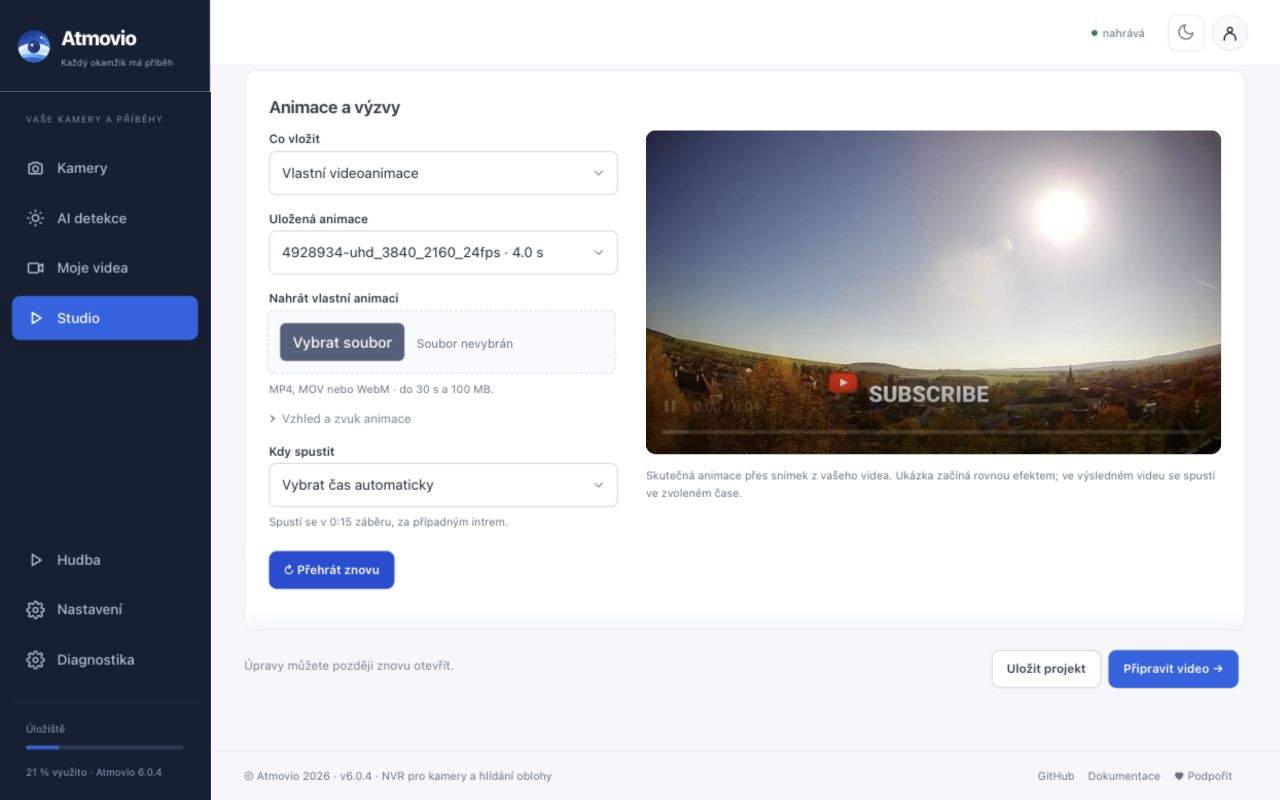
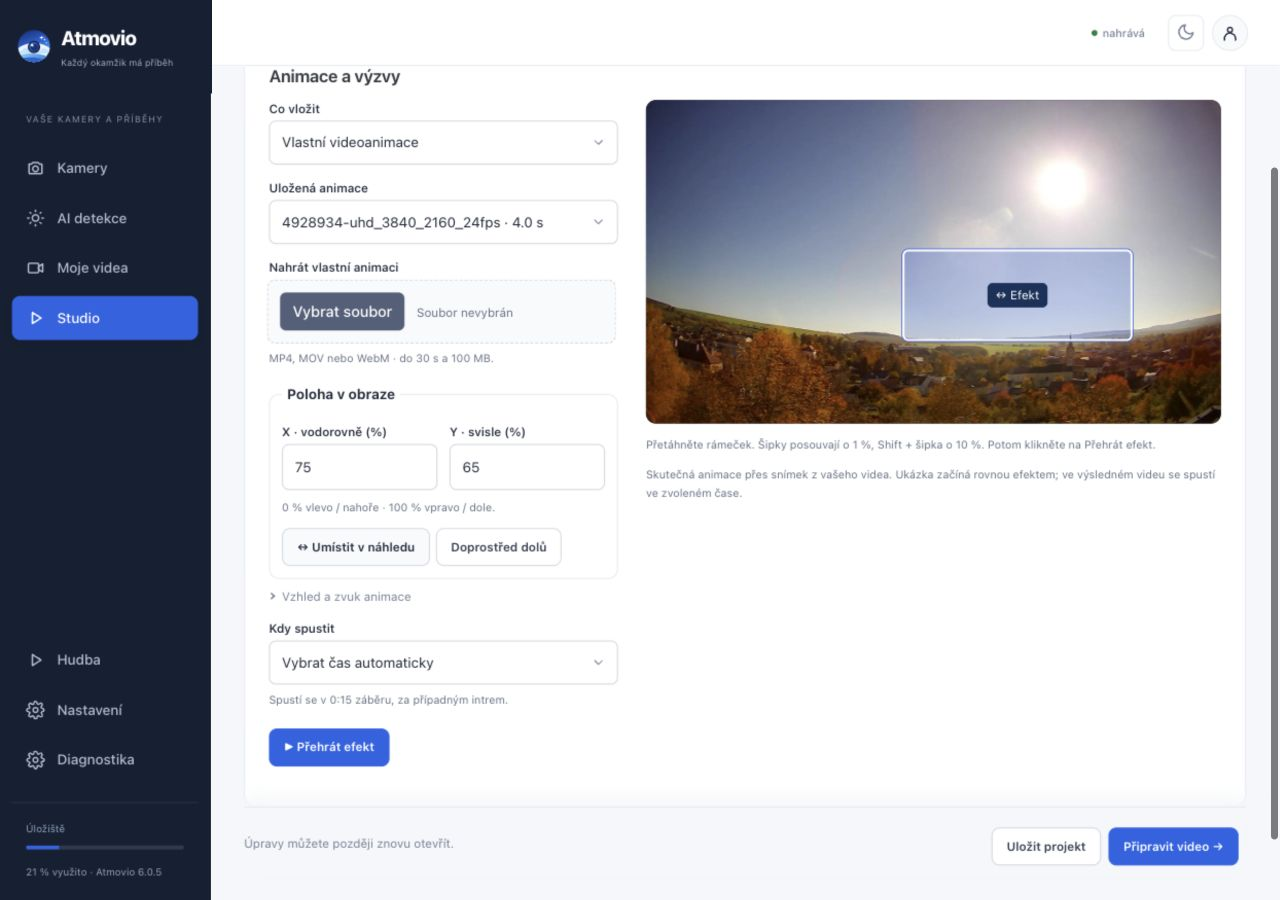
Position video effects with coordinates and preview dragging

diff --git a/src/atmovio/static/atmovio.js b/src/atmovio/static/atmovio.js
@@ -60,6 +60,41 @@
       return {
         effect, at, seconds, playing:false, effectMessage:'', busy:false, previewUrl:'',
         items:options.items||[],asset:options.asset||'',timing:options.timing||'manual',background:options.background||'auto',size:options.size||.4,sound:options.sound!==false,
+        posX:options.x??50,posY:options.y??100,positioning:false,drag:null,frameWidth:options.frameWidth||1920,frameHeight:options.frameHeight||1080,
+        positionChanged(){
+          this.posX=Math.max(0,Math.min(100,Number(this.posX)||0));this.posY=Math.max(0,Math.min(100,Number(this.posY)||0));
+          this.resetVideoPreview();this.positioning=true;
+        },
+        editPosition(){this.stopEffect();this.positioning=true;this.$nextTick(()=>this.$refs.positionStage.scrollIntoView({block:'nearest',behavior:'smooth'}));},
+        positionBox(){
+          const item=this.items.find(item=>item.asset===this.asset);
+          const W=Math.min(1920,this.frameWidth),H=this.frameHeight*W/this.frameWidth,margin=W/120;
+          const mode=this.background==='auto'?item?.background:this.background;
+          const crop=item&&mode===item.background&&mode!=='none'?(item.crop||[0,0,1,1]):[0,0,1,1];
+          const ratio=item?Math.max(2,Math.floor((crop[2]-crop[0])*item.width/2)*2)/Math.max(2,Math.floor((crop[3]-crop[1])*item.height/2)*2):16/9;
+          const width=Math.max(2,Math.floor(Math.min(W*this.size,(H-2*margin)*ratio)/2)*2),height=Math.round(width/ratio/2)*2;
+          const dx=Math.max(0,W-width-2*margin),dy=Math.max(0,H-height-2*margin);
+          return {W,H,width,height,dx,dy,x:margin+dx*this.posX/100,y:margin+dy*this.posY/100};
+        },
+        positionStyle(){const b=this.positionBox();return `left:${b.x/b.W*100}%;top:${b.y/b.H*100}%;width:${b.width/b.W*100}%;height:${b.height/b.H*100}%`;},
+        beginDrag(event){
+          if(event.button!==0)return;
+          this.stopEffect();this.previewUrl='';this.positioning=true;
+          this.drag={id:event.pointerId,x:event.clientX,y:event.clientY,posX:this.posX,posY:this.posY};
+          event.currentTarget.focus({preventScroll:true});event.currentTarget.setPointerCapture(event.pointerId);
+        },
+        moveDrag(event){
+          if(!this.drag||event.pointerId!==this.drag.id)return;
+          const b=this.positionBox(),rect=this.$refs.positionStage.getBoundingClientRect();
+          if(!rect.width||!rect.height)return;
+          this.posX=b.dx?Math.round(Math.max(0,Math.min(100,this.drag.posX+(event.clientX-this.drag.x)/rect.width*b.W/b.dx*100))):50;
+          this.posY=b.dy?Math.round(Math.max(0,Math.min(100,this.drag.posY+(event.clientY-this.drag.y)/rect.height*b.H/b.dy*100))):50;
+        },
+        endDrag(event){if(this.drag?.id===event.pointerId){this.drag=null;if(event.currentTarget.hasPointerCapture(event.pointerId))event.currentTarget.releasePointerCapture(event.pointerId);}},
+        moveKey(event){
+          const delta={ArrowLeft:[-1,0],ArrowRight:[1,0],ArrowUp:[0,-1],ArrowDown:[0,1]}[event.key];if(!delta)return;
+          event.preventDefault();const step=event.shiftKey?10:1;this.posX+=delta[0]*step;this.posY+=delta[1]*step;this.positionChanged();
+        },
         selectedDuration(){return this.items.find(item=>item.asset===this.asset)?.duration||0;},
         effectTime(mainDuration){
           const item=this.items.find(item=>item.asset===this.asset),length=this.effect==='video' ? (item?.duration||0) : Number(this.seconds)||4;
@@ -83,11 +118,11 @@
           if(!this.asset||this.busy)return;
           const current=++generation;this.busy=true;this.effectMessage='Připravuji ukázku s vaším záběrem…';
           try{
-            const body=new FormData();Object.entries({asset:this.asset,vid:options.vid,background:this.background,size:this.size,sound:this.sound?'1':'',csrf_token:this.$el.closest('form').querySelector('[name=csrf_token]').value}).forEach(([key,value])=>body.append(key,value));
+            const body=new FormData();Object.entries({asset:this.asset,vid:options.vid,background:this.background,size:this.size,x:this.posX,y:this.posY,sound:this.sound?'1':'',csrf_token:this.$el.closest('form').querySelector('[name=csrf_token]').value}).forEach(([key,value])=>body.append(key,value));
             const response=await fetch('/studio/effects/preview',{method:'POST',body,credentials:'same-origin'}),data=await response.json();
             if(current!==generation)return;
             if(!response.ok)throw Error(data.error||'Ukázku nelze připravit.');
-            this.previewUrl=data.url;this.effectMessage='';await this.$nextTick();
+            this.previewUrl=data.url;this.positioning=false;this.effectMessage='';await this.$nextTick();
             if(current!==generation)return;
             const video=this.$refs.effectVideo;video.currentTime=0;
             await video.play().catch(()=>{this.effectMessage='Ukázka je připravená. Spusťte ji v přehrávači.';});

diff --git a/tests/studio_preview.js b/tests/studio_preview.js
@@ -11,10 +11,10 @@ class AudioEngine {
   async resume(){this.state='running';}
   async close(){closed++;}
 }
-let pendingPreview;
+let pendingPreview, previewBody;
 const window = {AudioContext:AudioEngine,addEventListener(){}};
 vm.runInNewContext(fs.readFileSync(require('node:path').join(__dirname,'../src/atmovio/static/atmovio.js'),'utf8'),{
-  FormData,fetch:()=>new Promise(resolve=>{pendingPreview=resolve;}),
+  FormData,fetch:(_url,options)=>new Promise(resolve=>{previewBody=options.body;pendingPreview=resolve;}),
   document:{readyState:'loading',addEventListener:(name,fn)=>events[name]=fn}, window,
   Alpine:{data:(name,factory)=>components[name]=factory}
 });
@@ -62,5 +62,22 @@ events['alpine:init']();
   request=uploaded.playVideoEffect();pendingPreview({ok:true,json:async()=>({url:'/ready.mp4'})});await request;
   assert.equal(plays,1);assert.equal(uploaded.previewUrl,'/ready.mp4');
   uploaded.resetVideoPreview();assert.equal(uploaded.previewUrl,'');
+  uploaded.items=[{asset:'clip.mp4',duration:5,width:640,height:360,background:'none',crop:[0,0,1,1]}];
+  uploaded.frameWidth=1280;uploaded.frameHeight=720;
+  uploaded.posX=0;uploaded.posY=0;uploaded.positionChanged();
+  let box=uploaded.positionBox();assert.ok(box.x>0&&box.y>0);assert.equal(uploaded.positioning,true);
+  uploaded.posX=100;uploaded.posY=100;box=uploaded.positionBox();
+  assert.ok(box.x+box.width<box.W&&box.y+box.height<box.H);
+  uploaded.$refs.positionStage={getBoundingClientRect:()=>({width:640,height:360})};
+  const target={focus(){},setPointerCapture(){},hasPointerCapture(){return true;},releasePointerCapture(){}};
+  uploaded.beginDrag({button:0,pointerId:1,clientX:500,clientY:300,currentTarget:target});
+  uploaded.moveDrag({pointerId:2,clientX:0,clientY:0});assert.equal(uploaded.posX,100);
+  uploaded.moveDrag({pointerId:1,clientX:-500,clientY:-300});assert.equal(uploaded.posX,0);assert.equal(uploaded.posY,0);
+  uploaded.endDrag({pointerId:1,currentTarget:target});assert.equal(uploaded.drag,null);
+  uploaded.moveKey({key:'ArrowRight',shiftKey:true,preventDefault(){}});assert.equal(uploaded.posX,10);
+  uploaded.moveKey({key:'ArrowDown',shiftKey:false,preventDefault(){}});assert.equal(uploaded.posY,1);
+  request=uploaded.playVideoEffect();assert.equal(previewBody.get('x'),'10');assert.equal(previewBody.get('y'),'1');
+  uploaded.positionChanged();pendingPreview({ok:true,json:async()=>({url:'/wrong-position.mp4'})});await request;
+  assert.equal(uploaded.previewUrl,'');assert.equal(uploaded.positioning,true);
   console.log('Studio preview: gain, seek, replay, fallback, fade and cleanup OK');
 })().catch(error=>{console.error(error);process.exitCode=1;});

diff --git a/src/atmovio/static/atmovio.css b/src/atmovio/static/atmovio.css
@@ -1380,3 +1380,6 @@ header.top nav.menu > a.active, header.top nav.menu .dd > button.active { backgr
 .effect-workspace{display:grid;grid-template-columns:minmax(240px,.85fr) minmax(0,1.4fr);gap:28px;align-items:start}.effect-settings>label:first-child{margin-top:0}.effect-workspace .effect-preview{margin:0 0 12px}.effect-workspace .effect-preview-actions{flex-wrap:wrap}.effect-workspace .row{grid-template-columns:1fr}.effect-demo{min-width:0}@media(max-width:900px){.effect-workspace{grid-template-columns:1fr}.effect-workspace .row{grid-template-columns:1fr 1fr}}
 
 .effect-video-preview video{width:100%;max-height:50vh;border-radius:10px;background:#0b1421}.effect-placeholder{position:relative;border-radius:10px;overflow:hidden}.effect-placeholder img{display:block;width:100%;opacity:.65}.effect-placeholder p{position:absolute;inset:0;display:grid;place-items:center;background:rgb(0 0 0 / 30%);color:white;text-align:center;padding:24px;margin:0}.effect-upload input[type=file]{width:100%;font-size:12px}.effect-video-preview .hint{margin:12px 0}.music-card>form{margin-top:14px}.music-trash form,.music-trash .overview-row{margin-bottom:0}.music-trash small{color:var(--at-muted)}
+
+/* Positioning is separate from playback so dragging never steals the media controls. */
+.effect-position-controls{margin:16px 0 0;padding:12px;border:1px solid var(--at-line);border-radius:10px}.effect-position-controls legend{font-weight:650;font-size:14px;padding:0 5px}.effect-coordinates{display:grid;grid-template-columns:1fr 1fr;gap:12px}.effect-coordinates label{margin:0}.effect-position-controls .hint{margin:8px 0}.effect-position-controls .actions{gap:8px;flex-wrap:wrap}.effect-position-stage{position:relative;overflow:hidden;border-radius:10px;background:#0b1421}.effect-position-stage>img{position:absolute;width:100%;height:100%;object-fit:fill;user-select:none;pointer-events:none}.effect-position-stage .effect-position-box{position:absolute;min-width:0;min-height:0;margin:0;padding:0;display:grid;place-items:center;background:rgb(37 99 235 / 25%);border:2px solid #fff;box-shadow:0 0 0 1px #2563eb;border-radius:6px;cursor:grab;touch-action:none;user-select:none}.effect-position-box:active{cursor:grabbing}.effect-position-box span{padding:3px 8px;background:#15315b;color:white;border-radius:5px;font-size:12px;white-space:nowrap}.effect-position-box:focus-visible{outline:3px solid #ffbe55;outline-offset:2px}

diff --git a/src/atmovio/app.py b/src/atmovio/app.py
@@ -58,7 +58,7 @@ CONFIG_FILE = APP_DIR / "config.json"
 DB_FILE = APP_DIR / "atmovio.db"
 LOG_FILE = APP_DIR / "atmovio.log"
 FRIGATE_CONTAINER = "frigate"
-APP_VERSION = "6.0.4"
+APP_VERSION = "6.0.5"
 GITHUB_REPO = "VladimirVecera/atmovio"          # odkud se berou nové verze (GitHub Releases)
 UPDATE_STATE_FILE = APP_DIR / "update-state.json"
 UPDATE_LOG_FILE = APP_DIR / "update.log"
@@ -3764,12 +3764,13 @@ TEMPLATES["studio_new.html"] = """{% extends "base.html" %}{% block actions %}<a
   </details></div></section>
 <section id="studio-intro" x-show="tab==='intro'" x-cloak x-data="introPicker({{ (values.edit.intro_asset or '')|tojson|forceescape }}, {{ values.intro_url|tojson|forceescape }}, {{ (intro.suffix|lower if intro else '')|tojson|forceescape }})"><h2>Úvod videa</h2><p class="hint">Tady si přehrajete intro a můžete ho vyměnit.</p><input type="hidden" name="intro_asset" :value="asset"><div class="intro-edit-grid"><div class="intro-canvas"><img x-show="url && isImage" class="intro-preview" :src="isImage ? url : null" alt="Náhled intra"><video x-show="url && !isImage" class="intro-preview" controls playsinline preload="metadata" :src="url && !isImage ? url : null"></video><p x-show="!url">Vyberte video nebo obrázek pro začátek videa.</p></div><div><label class="check"><input type="checkbox" name="intro" value="1" x-model="intro" :disabled="!url">Přidat intro na začátek</label><label>Vybrat nebo změnit intro<input type="file" accept=".mp4,.mov,.m4v,.png,.jpg,.jpeg" @change="upload($event)" :disabled="busy"></label><p class="hint" role="status" x-text="message"></p><p class="hint">Video nebo obrázek · do 100 MB. Změna platí pro tento projekt.</p></div></div></section>
 <section id="studio-text" x-show="tab==='text'" x-cloak><h2>Text v obraze</h2><label class="check"><input type="checkbox" name="text_on" value="1" x-model="textOn">Přidat text</label><label x-show="textOn">Váš text<input name="text" value="{{ values.text }}" maxlength="200" placeholder="Například: Ranní mlha nad údolím"></label><label>Poloha<select name="text_pos">{% for key,label in [('bl','Dole vlevo'),('bc','Dole uprostřed'),('br','Dole vpravo'),('tl','Nahoře vlevo'),('tr','Nahoře vpravo')] %}<option value="{{ key }}" {{ 'selected' if values.edit.text_pos==key }}>{{ label }}</option>{% endfor %}</select></label><p class="hint">Napište běžný text. Kamera, datum a čas patří do popisu, pokud je nechcete v obraze.</p></section>
-<section id="studio-effects" x-show="tab==='effects'" x-cloak x-data="effectPreview({{ values.edit.effect|tojson|forceescape }}, {{ values.edit.effect_at }}, {{ values.edit.effect_duration }}, {items:{{ effects|tojson|forceescape }},asset:{{ values.edit.effect_asset|tojson|forceescape }},timing:{{ values.edit.effect_timing|tojson|forceescape }},background:{{ values.edit.effect_background|tojson|forceescape }},size:{{ values.edit.effect_size }},sound:{{ 'true' if values.edit.effect_sound else 'false' }},vid:{{ export.id }}})" @studio-tab.window="stopEffect()"><h2>Animace a výzvy</h2><div class="effect-workspace"><div class="effect-settings"><label>Co vložit<select name="effect" x-model="effect" @change="resetVideoPreview()"><option value="">Bez efektu</option><option value="video">Vlastní videoanimace</option><optgroup label="Jednoduchá textová výzva">{% for key,label in [('subscribe','Odebírejte další videa'),('share','Sdílejte tento okamžik'),('both','Sdílejte a odebírejte')] %}<option value="{{ key }}" {{ 'selected' if values.edit.effect==key }}>{{ label }}</option>{% endfor %}</optgroup></select></label>
+<section id="studio-effects" x-show="tab==='effects'" x-cloak x-data="effectPreview({{ values.edit.effect|tojson|forceescape }}, {{ values.edit.effect_at }}, {{ values.edit.effect_duration }}, {items:{{ effects|tojson|forceescape }},asset:{{ values.edit.effect_asset|tojson|forceescape }},timing:{{ values.edit.effect_timing|tojson|forceescape }},background:{{ values.edit.effect_background|tojson|forceescape }},size:{{ values.edit.effect_size }},x:{{ values.edit.effect_x }},y:{{ values.edit.effect_y }},frameWidth:{{ src.width or 1920 }},frameHeight:{{ src.height or 1080 }},sound:{{ 'true' if values.edit.effect_sound else 'false' }},vid:{{ export.id }}})" @studio-tab.window="stopEffect()"><h2>Animace a výzvy</h2><div class="effect-workspace"><div class="effect-settings"><label>Co vložit<select name="effect" x-model="effect" @change="resetVideoPreview()"><option value="">Bez efektu</option><option value="video">Vlastní videoanimace</option><optgroup label="Jednoduchá textová výzva">{% for key,label in [('subscribe','Odebírejte další videa'),('share','Sdílejte tento okamžik'),('both','Sdílejte a odebírejte')] %}<option value="{{ key }}" {{ 'selected' if values.edit.effect==key }}>{{ label }}</option>{% endfor %}</optgroup></select></label>
 <div x-show="effect==='video'"><label>Uložená animace<select name="effect_asset" x-model="asset" @change="resetVideoPreview()"><option value="">Vyberte animaci</option><template x-for="item in items" :key="item.asset"><option :value="item.asset" x-text="item.name+' · '+item.duration.toFixed(1)+' s'"></option></template></select></label><label class="effect-upload">Nahrát vlastní animaci<input type="file" accept=".mp4,.mov,.m4v,.webm" @change="uploadEffect($event)" :disabled="busy"></label><p class="hint">MP4, MOV nebo WebM · do 30 s a 100 MB.</p>
+<fieldset class="effect-position-controls" x-show="asset"><legend>Poloha v obraze</legend><div class="effect-coordinates"><label>X · vodorovně (%)<input name="effect_x" type="number" min="0" max="100" step="1" x-model.number="posX" @input="positionChanged()"></label><label>Y · svisle (%)<input name="effect_y" type="number" min="0" max="100" step="1" x-model.number="posY" @input="positionChanged()"></label></div><p class="hint">0 % vlevo / nahoře · 100 % vpravo / dole.</p><div class="actions"><button type="button" class="btn small sec" @click="editPosition()">↔ Umístit v náhledu</button><button type="button" class="btn small sec" @click="posX=50;posY=100;positionChanged()">Doprostřed dolů</button></div></fieldset>
 <details class="inline-help"><summary>Vzhled a zvuk animace</summary><label>Pozadí<select name="effect_background" x-model="background" @change="resetVideoPreview()"><option value="auto">Odstranit automaticky</option><option value="green">Odstranit zelené</option><option value="black">Odstranit černé</option><option value="none">Ponechat původní</option></select></label><label>Velikost<select name="effect_size" x-model.number="size" @change="resetVideoPreview()"><option value="0.25">Malá</option><option value="0.4">Střední</option><option value="0.6">Velká</option><option value="0.8">Největší</option></select></label><label class="check"><input type="checkbox" name="effect_sound" value="1" x-model="sound" @change="resetVideoPreview()">Přehrát i zvuk animace</label></details></div>
 <div x-show="effect"><label>Kdy spustit<select name="effect_timing" x-model="timing" @change="stopEffect()"><option value="auto">Vybrat čas automaticky</option><option value="manual">Zadat čas ručně</option></select></label><p class="hint" x-show="timing==='auto'" x-text="'Spustí se v '+effectTime((trimEnd-trimStart)/speed)+' záběru, za případným intrem.'"></p><label x-show="timing==='manual'">Začátek · sekundy hotového záběru<input type="number" min="0" max="21600" name="effect_at" x-model.number="at" @input="stopEffect()"></label><label x-show="effect!=='video'">Délka zobrazení · s<input type="number" min="1" max="30" name="effect_duration" x-model.number="seconds" @input="stopEffect()"></label></div>
 <p class="hint" x-show="effect==='video' && selectedDuration()>(trimEnd-trimStart)/speed">Záběr je kratší než animace. Použije se jen část, která se do videa vejde.</p><div class="effect-preview-actions"><button type="button" class="btn" :disabled="!effect || busy || (effect==='video' && !asset)" @click="playEffect((trimEnd-trimStart)/speed)" x-text="busy ? 'Připravuji ukázku…' : playing ? '↻ Přehrát znovu' : '▶ Přehrát efekt'"></button><span class="hint" role="status" x-text="effectMessage"></span></div></div><div class="effect-demo">
-<div x-show="effect==='video'" class="effect-video-preview"><video x-ref="effectVideo" x-show="previewUrl" :src="previewUrl || null" controls playsinline preload="metadata" @ended="playing=false" @pause="playing=false" @play="playing=true"></video><div x-show="!previewUrl" class="effect-placeholder"><img src="/videos/{{ export.id }}/thumb.jpg" alt="Snímek zdrojového videa"><p>Vyberte animaci a klikněte na Přehrát efekt.</p></div><p class="hint">Skutečná animace přes snímek z vašeho videa. Ukázka začíná rovnou efektem; ve výsledném videu se spustí ve zvoleném čase.</p></div>
+<div x-show="effect==='video'" class="effect-video-preview"><video x-ref="effectVideo" x-show="previewUrl && !positioning" :src="previewUrl || null" controls playsinline preload="metadata" @ended="playing=false" @pause="playing=false" @play="playing=true"></video><div x-show="positioning && asset" class="effect-position-stage" x-ref="positionStage" :style="'aspect-ratio:'+frameWidth+'/'+frameHeight"><img src="/videos/{{ export.id }}/thumb.jpg" alt="Umístění efektu v obraze" draggable="false"><button type="button" class="effect-position-box" :style="positionStyle()" aria-label="Poloha efektu — přetáhněte nebo použijte šipky" @pointerdown.prevent="beginDrag($event)" @pointermove="moveDrag($event)" @pointerup="endDrag($event)" @pointercancel="endDrag($event)" @lostpointercapture="drag=null" @keydown="moveKey($event)"><span>↔ Efekt</span></button></div><p x-show="positioning && asset" class="hint">Přetáhněte rámeček. Šipky posouvají o 1 %, Shift + šipka o 10 %. Potom klikněte na Přehrát efekt.</p><div x-show="!previewUrl && !positioning" class="effect-placeholder"><img src="/videos/{{ export.id }}/thumb.jpg" alt="Snímek zdrojového videa"><p>Vyberte animaci a klikněte na Přehrát efekt.</p></div><p class="hint">Skutečná animace přes snímek z vašeho videa. Ukázka začíná rovnou efektem; ve výsledném videu se spustí ve zvoleném čase.</p></div>
 {% set effect_width = [src.width or 1920,1920]|min %}{% set effect_size = [24,effect_width//45]|max %}
 <div x-show="effect!=='video'"><div class="effect-preview" style="--effect-font:{{ effect_size/effect_width*100 }}cqw;--effect-bottom:{{ 24/effect_width*100 }}cqw;--effect-padding:{{ 10/effect_width*100 }}cqw;--effect-stroke:{{ 2/effect_width*100 }}cqw"><img src="/videos/{{ export.id }}/thumb.jpg" alt="Snímek zdrojového videa"><span class="effect-caption" x-ref="caption" x-show="effect" x-text="caption"></span></div><p class="hint">Ukázka textového efektu na snímku z videa.</p></div></div></div></section>
 <section id="studio-title" x-show="tab==='title'" x-cloak x-data="titleIdeas({vid:{{ export.id }}})"><h2>Název a popis</h2><label>Název<input name="title" value="{{ short_title(values.title,export.camera) }}" maxlength="100" x-ref="title"></label><label>Popis<textarea name="description" rows="6" x-ref="description">{{ values.description }}</textarea></label><button type="button" class="btn sec" @click="askMetadata()" :disabled="busy">Navrhnout texty</button><p class="hint" x-text="metaMsg"></p><div x-show="proposal"><strong x-text="proposal?.title"></strong><p x-text="proposal?.description"></p><button class="btn small" type="button" @click="applyMetadata()">Použít návrh</button></div></section>
@@ -7425,13 +7426,20 @@ def studio_effect_filter(meta, edit, width, height, start=0):
     x, y = int(box[0]*meta['width'])//2*2, int(box[1]*meta['height'])//2*2
     cw = max(2,min(meta['width']-x,int((box[2]-box[0])*meta['width'])//2*2))
     ch = max(2,min(meta['height']-y,int((box[3]-box[1])*meta['height'])//2*2))
-    target = min(width*edit.get('effect_size',.4),(height-32)*cw/ch)
+    target = min(width*edit.get('effect_size',.4),max(2,height-width/60)*cw/ch)
     target = max(2,int(target)//2*2)
     chain = f'crop={cw}:{ch}:{x}:{y},scale={target}:-2,setsar=1,format=rgba'
     if mode in ('green','black'):
         key = meta['color'] if mode == meta['background'] else '00ff00' if mode == 'green' else '000000'
         chain += f',colorkey=0x{key}:{.2 if mode == "green" else .12}:0.08'
     return chain + f',setpts=PTS-STARTPTS+{start:.6f}/TB'
+
+
+def studio_effect_overlay(edit):
+    # Coordinates span the available area, keeping the whole animation inside a small inset.
+    # The inset scales with the frame so the preview and final render agree.
+    x, y = edit.get('effect_x', 50), edit.get('effect_y', 100)
+    return f"overlay=x='W/120+max(0,W-w-W/60)*{x/100:.6f}':y='W/120+max(0,H-h-W/60)*{y/100:.6f}':eof_action=pass:repeatlast=0"
 
 
 @app.post('/studio/effects/upload')
@@ -7461,9 +7469,9 @@ _effect_preview_lock = threading.Lock()
 
 @app.post('/studio/effects/preview')
 def studio_effect_preview(request: Request, asset: str = Form(...), vid: int = Form(...), background: str = Form('auto'),
-                          size: float = Form(.4), sound: str = Form('1')):
+                          size: float = Form(.4), sound: str = Form('1'), x: float = Form(50), y: float = Form(100)):
     meta = studio_effect_meta(asset)
-    if not meta or background not in ('auto','green','black','none') or not math.isfinite(size) or not .2 <= size <= .8:
+    if not meta or background not in ('auto','green','black','none') or not all(math.isfinite(n) for n in (size,x,y)) or not .2 <= size <= .8 or not 0 <= x <= 100 or not 0 <= y <= 100:
         return JSONResponse({'error':'Vyberte dostupnou animaci a její nastavení.'},status_code=400)
     cfg = load_config()
     with db() as con:
@@ -7473,15 +7481,16 @@ def studio_effect_preview(request: Request, asset: str = Form(...), vid: int = F
     poster = export_thumb_path(cfg,dict(rec),frigate_exports(cfg).get(rec['frigate_id']))
     if not poster:
         return JSONResponse({'error':'Náhled zdrojového videa není dostupný.'},status_code=404)
-    token = hashlib.sha256(f'{asset}:{vid}:{poster.stat().st_mtime_ns}:{background}:{size}:{bool(sound)}'.encode()).hexdigest()[:32]
+    token = hashlib.sha256(f'position-v1:{asset}:{vid}:{poster.stat().st_mtime_ns}:{background}:{size}:{bool(sound)}:{x}:{y}'.encode()).hexdigest()[:32]
     folder = studio_effect_dir()/'previews';folder.mkdir(exist_ok=True)
     target = folder/(token+'.mp4')
     with _effect_preview_lock:
         if not target.is_file():
             with Image.open(poster) as im:
                 w,h=640,max(2,round(im.height*640/im.width/2)*2)
-            chain=studio_effect_filter(meta,{'effect_background':background,'effect_size':size},w,h)
-            filters=f'[0:v]scale={w}:{h},setsar=1[bg];[1:v]{chain}[fx];[bg][fx]overlay=(W-w)/2:H-h-16:eof_action=pass:repeatlast=0,format=yuv420p[v]'
+            edit={'effect_background':background,'effect_size':size,'effect_x':x,'effect_y':y}
+            chain=studio_effect_filter(meta,edit,w,h)
+            filters=f'[0:v]scale={w}:{h},setsar=1[bg];[1:v]{chain}[fx];[bg][fx]{studio_effect_overlay(edit)},format=yuv420p[v]'
             temp=folder/(token+'.part.mp4')
             cmd=['ffmpeg','-v','error','-nostdin','-y','-filter_complex_threads','1','-loop','1','-i',str(poster),
                  '-threads','2','-i',str(studio_effect_dir()/asset),'-filter_complex',filters,'-map','[v]']
@@ -7694,7 +7703,8 @@ def normalize_studio_edit(edit, sc):
     result = {}
     for key, default, low, high in [('music_start', 0, 0, 86400), ('music_volume', sc.get('music_volume', .8), 0, 2),
                                   ('fade_in', sc.get('fade_in', 2), 0, 30), ('fade_out', sc.get('fade_out', 4), 0, 30),
-                                  ('effect_at', 5, 0, 21600), ('effect_duration', 4, 1, 30), ('effect_size', .4, .2, .8)]:
+                                  ('effect_at', 5, 0, 21600), ('effect_duration', 4, 1, 30), ('effect_size', .4, .2, .8),
+                                  ('effect_x', 50, 0, 100), ('effect_y', 100, 0, 100)]:
         value = float(edit.get(key, default))
         if not math.isfinite(value) or not low <= value <= high:
             raise ValueError('Neplatné nastavení zvuku nebo efektu.')
@@ -7865,7 +7875,7 @@ def studio_render(cfg, job: dict):
         cmd += ['-threads','2','-t',str(effect_length),'-i',str(studio_effect_dir()/edit['effect_asset'])]
         filters.append(main+'[plain]')
         filters.append(f'[{effect_in}:v]'+studio_effect_filter(effect_meta,edit,w,h,effect_begin)+'[effect]')
-        filters.append(f"[plain][effect]overlay=(W-w)/2:H-h-16:eof_action=pass:repeatlast=0:enable='between(t,{effect_begin:.6f},{effect_begin+effect_length:.6f})'[main]")
+        filters.append(f"[plain][effect]{studio_effect_overlay(edit)}:enable='between(t,{effect_begin:.6f},{effect_begin+effect_length:.6f})'[main]")
     else:
         filters.append(main+'[main]')
     intro_sec = 0.0
@@ -8175,7 +8185,8 @@ def studio_new_post(request: Request, vid: int, speed: int = Form(20), intro: st
                     music_start: float = Form(0), music_volume: float = Form(.8), fade_in: float = Form(2), fade_out: float = Form(4),
                     effect: str = Form(''), effect_at: float = Form(5), effect_duration: float = Form(4), text_pos: str = Form('bl'),
                     intro_asset: str = Form(''), project_id: int = Form(0), effect_asset: str = Form(''), effect_timing: str = Form('manual'),
-                    effect_background: str = Form('auto'), effect_size: float = Form(.4), effect_sound: str = Form('')):
+                    effect_background: str = Form('auto'), effect_size: float = Form(.4), effect_sound: str = Form(''),
+                    effect_x: float = Form(50), effect_y: float = Form(100)):
     cfg = load_config()
     export = _studio_export(cfg, vid)
     if not export:
@@ -8194,7 +8205,7 @@ def studio_new_post(request: Request, vid: int, speed: int = Form(20), intro: st
                              description.strip(), trim_start=trim_start, trim_end=trim_end if trim_start or trim_end < info["duration"] - 0.11 else None,
                              draft=action == 'draft', project_id=project_id, edit=dict(music_start=music_start, music_volume=music_volume, fade_in=fade_in,
                              fade_out=fade_out, effect=effect, effect_at=effect_at, effect_duration=effect_duration, text_pos=text_pos, intro_asset=intro_asset, effect_asset=effect_asset, effect_timing=effect_timing,
-                             effect_background=effect_background, effect_size=effect_size, effect_sound=bool(effect_sound)))
+                             effect_background=effect_background, effect_size=effect_size, effect_sound=bool(effect_sound), effect_x=effect_x, effect_y=effect_y))
     except ValueError as exc:
         flash(request, str(exc), "err")
         return RedirectResponse("/videos", status_code=303)

diff --git a/tests/video_effects.py b/tests/video_effects.py
@@ -29,23 +29,34 @@ with tempfile.TemporaryDirectory(prefix='atmovio-effects-') as tmp:
   assert response.status_code==200,response.text
   meta=response.json();assert meta['background']==background and meta['crop'][2]-meta['crop'][0]<.5,meta
   assert client.get('/studio/effects/asset/'+meta['asset'],headers={'Range':'bytes=0-99'}).status_code==206
-  edit={'effect':'video','effect_asset':meta['asset'],'effect_timing':'auto','effect_background':'auto','effect_sound':True,'music_volume':.2,'fade_in':0,'fade_out':0}
+  pos=0 if background=='green' else 100
+  point=(100,60) if pos==0 else (540,300)
+  edit={'effect_x':pos,'effect_y':pos,'effect':'video','effect_asset':meta['asset'],'effect_timing':'auto','effect_background':'auto','effect_sound':True,'music_volume':.2,'fade_in':0,'fade_out':0}
   with patch.object(a,'studio_kick'):
    sid=a.studio_enqueue(cfg,a._studio_export(cfg,eid),1,True,'tone.wav','','Overlay','',edit=edit,draft=True)
   with a.db() as con:job=dict(con.execute('SELECT * FROM studio_videos WHERE id=?',(sid,)).fetchone())
   assert json.loads(job['edit_json'])['effect_asset']==meta['asset']
+  assert json.loads(job['edit_json'])['effect_x']==pos and json.loads(job['edit_json'])['effect_y']==pos
   client.post('/studio/upload/music/delete',data={'csrf_token':token,'name':'tone.wav'},follow_redirects=False)
   assert a.studio_music_path('tone.wav').parent.name=='trash'
   with patch.object(a,'storage_ready',return_value=True),patch.object(a,'frigate_exports',return_value={'source':{'video_path':str(source),'thumb_path':str(poster)}}),patch.object(a,'frigate_media_path',side_effect=lambda p:Path(p)),patch.object(a,'studio_after_render'):
-   preview=client.post('/studio/effects/preview',data={'csrf_token':token,'asset':meta['asset'],'vid':eid})
+   preview=client.post('/studio/effects/preview',data={'csrf_token':token,'asset':meta['asset'],'vid':eid,'x':pos,'y':pos})
    assert preview.status_code==200,preview.text
    assert client.get(preview.json()['url']).status_code==200
+   preview_path=a.studio_effect_dir()/'previews'/Path(preview.json()['url']).name
+   raw=ff('-ss','1','-i',preview_path,'-frames:v','1','-f','rawvideo','-pix_fmt','rgb24','pipe:1')
+   sample=Image.frombytes('RGB',(640,360),raw)
+   assert sample.getpixel(point)[0]>200 and sample.getpixel((320,180))[2]>200
+   saved=client.post(f'/studio/new/{eid}',data={'csrf_token':token,'action':'draft','speed':1,'title':'Positioned','effect':'video','effect_asset':meta['asset'],'effect_x':25,'effect_y':75,'trim_end':8},follow_redirects=False)
+   assert saved.status_code==303,saved.text
+   with a.db() as con: saved_edit=json.loads(con.execute("SELECT edit_json FROM studio_videos WHERE title='Positioned' ORDER BY id DESC LIMIT 1").fetchone()[0])
+   assert saved_edit['effect_x']==25 and saved_edit['effect_y']==75
    a.studio_render(cfg,job)
   out=a.studio_out_dir(cfg)/f'{sid}.mp4';info=a.ffprobe_info(out)
   assert info['audio'] and 11.9<info['duration']<12.2,info
   def pixel(t):
    raw=ff('-ss',t,'-i',out,'-frames:v','1','-f','rawvideo','-pix_fmt','rgb24','pipe:1')
-   im=Image.frombytes('RGB',(640,360),raw);return im.getpixel((320,290)),im.getpixel((10,100))
+   im=Image.frombytes('RGB',(640,360),raw);return im.getpixel(point),im.getpixel((320,180))
   before,_=pixel(5);during,outside=pixel(6.7);after,_=pixel(9)
   assert before[2]>200 and after[2]>200 and outside[2]>200,(before,during,after,outside)
   assert during[0]>200 and during[1]<50 and during[2]<50,during
@@ -53,10 +64,19 @@ with tempfile.TemporaryDirectory(prefix='atmovio-effects-') as tmp:
    raw=ff('-ss',t,'-i',out,'-t','0.3','-vn','-ac','1','-ar','8000','-f','f32le','pipe:1')
    samples=struct.unpack('<'+'f'*(len(raw)//4),raw);return math.sqrt(sum(s*s for s in samples)/len(samples))
   assert rms(6.7)>rms(5)*2
+ assert a.normalize_studio_edit({},a.studio_cfg(cfg))['effect_x']==50
+ assert a.normalize_studio_edit({},a.studio_cfg(cfg))['effect_y']==100
+ for key in ('effect_x','effect_y'):
+  for bad in (-1,101,float('nan'),float('inf')):
+   try:a.normalize_studio_edit({key:bad},a.studio_cfg(cfg))
+   except ValueError:pass
+   else:raise AssertionError('invalid coordinate accepted')
+   response=client.post('/studio/effects/preview',data={'csrf_token':token,'asset':meta['asset'],'vid':eid,key[-1]:bad})
+   assert response.status_code in (400,422),response.text
  assert a.studio_effect_start(60,5)==15 and a.studio_effect_start(3,5)==0
  assert a.studio_effect_start(10,4,'manual',9)==6
  assert hashlib.sha256(source.read_bytes()).hexdigest()==original
  assert client.post('/studio/effects/upload',files={'file':('bad.mp4',b'broken','video/mp4')}).status_code==403
  assert client.post('/studio/effects/upload',data={'csrf_token':token},files={'file':('bad.mp4',b'broken','video/mp4')}).status_code==400
  assert a.studio_effect_meta('../../config.json') is None
- print('PASS: green/black detection and removal, cropping, preview, effect+intro+music timing, delayed sound, saved assets, short clips, untouched source, auth/CSRF')
+ print('PASS: green/black detection and removal, cropping, corner positions in preview/render, saved coordinates and bounds, effect+intro+music timing, delayed sound, saved assets, short clips, untouched source, auth/CSRF')

diff --git a/docs/cs/verze-6.0.md b/docs/cs/verze-6.0.md
@@ -1,4 +1,4 @@
-# Atmovio 6.0.4
+# Atmovio 6.0.5
 
 Hlavní nabídka má čtyři místa: **Kamery, AI detekce, Moje videa a Studio**. Hudba, nastavení a diagnostika jsou ve spodní části nabídky. Technické podklady AI zůstávají v rozbalitelných detailech.
 
@@ -14,7 +14,7 @@ AI detekce ukazují hotové klipy od nejnovějšího záznamu, bez ohledu na dat
 
 Překrývající se automatické klipy stejné kamery se spojují do jednoho rozsahu, nejvýše šest hodin. Například 10:00–12:20, 10:50–13:00 a 12:00–13:30 vytvoří 10:00–13:30. Staré klipy se skryjí až po dokončení spojeného videa. Pokud původní záznam už chybí, zůstanou původní klipy dostupné. Zdroje uložených projektů se automatickým úklidem neodstraňují; prostor lze uvolnit ručně.
 
-Přepínače ve Studiu otevírají samostatné pracovní plochy. Zdrojové video vidíte u střihu; hudba má vlastní široký přehrávač a intro vlastní náhled. Studio nabízí střih, rychlost 1× nebo časosběr 10–240×, hudbu s přehrávačem a volbou začátku, vlastní intro, text a výzvu k odběru či sdílení. Náhled zdroje slouží k výběru střihu; celý výsledek s efekty a hudbou je dostupný po přípravě videa. V Efektech můžete nahrát vlastní MP4/MOV/WebM animaci (do 30 s a 100 MB) a opakovaně ji vybírat z nabídky. **Přehrát efekt** ukáže skutečnou animaci přes snímek ze zdroje. Zelené nebo černé pozadí se odstraní automaticky; vzhled, velikost i zvuk lze změnit. Automatický čas se počítá z délky zrychleného záběru za intrem a vejde do něj celou animaci, pokud je záběr dost dlouhý. Čas můžete zadat i ručně. Hlasitost hudby je v procentech (100 % je původní hlasitost) a mění i poslech; tlačítko pod ní přehrává od vybraného začátku. Nástup a doznění hudby se použijí až při přípravě videa. Uložený projekt lze znovu otevřít. Úprava hotového videa vytvoří další verzi; již publikované video se samo nezmění.
+Přepínače ve Studiu otevírají samostatné pracovní plochy. Zdrojové video vidíte u střihu; hudba má vlastní široký přehrávač a intro vlastní náhled. Studio nabízí střih, rychlost 1× nebo časosběr 10–240×, hudbu s přehrávačem a volbou začátku, vlastní intro, text a výzvu k odběru či sdílení. Náhled zdroje slouží k výběru střihu; celý výsledek s efekty a hudbou je dostupný po přípravě videa. V Efektech můžete nahrát vlastní MP4/MOV/WebM animaci (do 30 s a 100 MB) a opakovaně ji vybírat z nabídky. **Přehrát efekt** ukáže skutečnou animaci přes snímek ze zdroje. Zelené nebo černé pozadí se odstraní automaticky; vzhled, velikost i zvuk lze změnit. V **Poloha v obraze** nastavíte **X** (vodorovně) a **Y** (svisle) v procentech. Tlačítko **Umístit v náhledu** dovoluje přetáhnout rámeček; šipky jej posunou o 1 %, se Shiftem o 10 %. Souřadnice se uloží do projektu a platí pro náhled i výsledné video. Automatický čas se počítá z délky zrychleného záběru za intrem a vejde do něj celou animaci, pokud je záběr dost dlouhý. Čas můžete zadat i ručně. Hlasitost hudby je v procentech (100 % je původní hlasitost) a mění i poslech; tlačítko pod ní přehrává od vybraného začátku. Nástup a doznění hudby se použijí až při přípravě videa. Uložený projekt lze znovu otevřít. Úprava hotového videa vytvoří další verzi; již publikované video se samo nezmění.
 
 ![Náhled vlastní animace s automatickým časováním](../img/v6/effects.png)
 
@@ -22,7 +22,7 @@ Hudební knihovna nabízí **Smazat skladbu** i **Smazat vše**. Skladby se pře
 
 ## Aktualizace a diagnostika
 
-Ve starší instalaci otevřete **Nastavení → Systém → Aktualizace**, klikněte na **Zkontrolovat teď** a potom **Nainstalovat verzi 6.0.4**. Aktualizátor stáhne instalační soubor z GitHub Releases a ověří kontrolní součet. Stejnou cestou budou dostupné další vydané opravy.
+Ve starší instalaci otevřete **Nastavení → Systém → Aktualizace**, klikněte na **Zkontrolovat teď** a potom **Nainstalovat verzi 6.0.5**. Aktualizátor stáhne instalační soubor z GitHub Releases a ověří kontrolní součet. Stejnou cestou budou dostupné další vydané opravy.
 
 Aktualizátor stáhne Frigate 0.18.2 a ověří kopii konfigurace za běhu staré verze. Před přepnutím zálohuje konfiguraci i zastavenou databázi. Během restartu vznikne krátká mezera v nahrávání. Nová verze musí potvrdit API a obraz dříve dostupných kamer; při selhání se obnoví původní Frigate i jeho databáze. Záznamy na datovém disku se nepřesouvají.
 

diff --git a/docs/v6.md b/docs/v6.md
@@ -1,13 +1,13 @@
-# Atmovio 6.0.4 upgrade notes
+# Atmovio 6.0.5 upgrade notes
 
 The new workspace groups everyday work into Cameras, AI Detections, My Videos and Studio. Clips are ordered by recording start time, newest first, even when older footage is exported or merged later. Advanced AI evidence, filters and processing details are collapsed. The interface remains Czech.
 
 - Camera playback uses HLS for live view and recorded video. Mark OD–DO on the device-local timeline to save up to six hours. Gaps remain visible; saving available footage across an outage requires an explicit checkbox. Playback maps elapsed media time back to the recording clock.
 - Overlapping automatic clips from one camera are joined into a bounded range. Old clips stay available until the replacement is ready; missing source recordings prevent consolidation. Sources referenced by saved Studio projects are retained by automatic cleanup.
-- Studio saves editable projects, including trim, speed, music offset/volume/fades, a versioned intro, text and subscribe/share callouts. Upload reusable MP4/MOV/WebM animations (up to 30 s / 100 MB), remove green or black backgrounds and preview them over a source thumbnail. Effects use automatic or manual timing, optional original sound and adjustable size. Music library removal supports single/bulk trash, restore and purging tracks not used by saved projects. Active render jobs keep their tracks. Music volume shows 0–200% and applies to audition playback; music fades apply during rendering. Re-editing a rendered video creates another version. Publishing is a separate action.
+- Studio saves editable projects, including trim, speed, music offset/volume/fades, a versioned intro, text and subscribe/share callouts. Upload reusable MP4/MOV/WebM animations (up to 30 s / 100 MB), remove green or black backgrounds and preview them over a source thumbnail. Effects use automatic or manual timing, optional original sound and adjustable size. Position video effects with X/Y percentages or drag the bounding box in the preview; keyboard arrows move by 1%, Shift + arrow by 10%. The project retains the coordinates for playback and rendering. Music library removal supports single/bulk trash, restore and purging tracks not used by saved projects. Active render jobs keep their tracks. Music volume shows 0–200% and applies to audition playback; music fades apply during rendering. Re-editing a rendered video creates another version. Publishing is a separate action.
 - The updater validates a copy of the configuration with Frigate 0.18.2 before stopping the old recorder. It backs up the stopped database and configuration, then checks the new API and previously active cameras. Failure restores the old image, configuration and database. Media is not moved. The restart causes a short recording gap.
 - Backups live under `/opt/nvr/atmovio/backups/`. Diagnostics group repeated errors, support resolved status and export redacted JSON. Review free text before sharing a diagnostic export.
 
 See the [Czech walkthrough](cs/verze-6.0.md) for the full user flow, and [installation](install.md) for requirements.
 
-Update older installations through **Nastavení → Systém → Aktualizace → Zkontrolovat teď → Nainstalovat verzi 6.0.4**. The updater downloads the release asset and verifies its checksum. Studio switches to a full-width music or intro workspace when that tool is selected; the source video stays in the trimming tool.
+Update older installations through **Nastavení → Systém → Aktualizace → Zkontrolovat teď → Nainstalovat verzi 6.0.5**. The updater downloads the release asset and verifies its checksum. Studio switches to a full-width music or intro workspace when that tool is selected; the source video stays in the trimming tool.

diff --git a/README.cs.md b/README.cs.md
@@ -28,7 +28,7 @@ sudo bash install.sh
 
 Po instalaci otevřete vypsanou adresu. Rozhraní je česky. Nahrávání funguje bez AI účtu; pro cloudové AI je potřeba vlastní klíč poskytovatele a jeho služby mohou být placené.
 
-**Atmovio 6.0.4** obsahuje Frigate 0.18.2, ověření konfigurace a zálohu pro návrat při chybě. Starší instalaci aktualizujete v **Nastavení → Systém → Aktualizace → Zkontrolovat teď**. Obrázky používají ukázková data. [Co vědět před aktualizací →](docs/cs/verze-6.0.md)
+**Atmovio 6.0.5** obsahuje Frigate 0.18.2, ověření konfigurace a zálohu pro návrat při chybě. Starší instalaci aktualizujete v **Nastavení → Systém → Aktualizace → Zkontrolovat teď**. Obrázky používají ukázková data. [Co vědět před aktualizací →](docs/cs/verze-6.0.md)
 
 ## Další informace
 

diff --git a/CHANGELOG.md b/CHANGELOG.md
@@ -2,6 +2,11 @@
 
 All notable changes to Atmovio (versions ≤ 3.4 were released under the name SkyWatch). Versions correspond to `APP_VERSION` in `src/atmovio/app.py`.
 
+## 6.0.5 – 2026-10-28 – position video effects
+
+- Place uploaded animations with X/Y percentages or drag their bounding box over the source thumbnail. Keyboard arrows and a bottom-center reset are available.
+- Save coordinates with the project and apply the same position in previews and rendered videos, with a proportional inset that keeps the effect inside the frame.
+
 ## 6.0.4 – 2026-10-28 – reusable video effects and music library removal
 
 - Upload and reuse MP4/MOV/WebM animations, automatically remove green or black backgrounds and crop the empty margins. Preview the actual animation over a source thumbnail, including sound.

diff --git a/README.md b/README.md
@@ -28,7 +28,7 @@ sudo bash install.sh
 
 Open the address shown by the installer. The interface is currently in Czech. Recording works without an AI account; cloud AI features require your own provider key and may incur charges.
 
-**Atmovio 6.0.4** includes Frigate 0.18.2, configuration validation and rollback backups. Update an existing installation in **Settings → System → Updates → Check now** (the interface is in Czech). Screenshots use demonstration data. See the [upgrade notes](docs/v6.md).
+**Atmovio 6.0.5** includes Frigate 0.18.2, configuration validation and rollback backups. Update an existing installation in **Settings → System → Updates → Check now** (the interface is in Czech). Screenshots use demonstration data. See the [upgrade notes](docs/v6.md).
 
 ## Learn more
 
